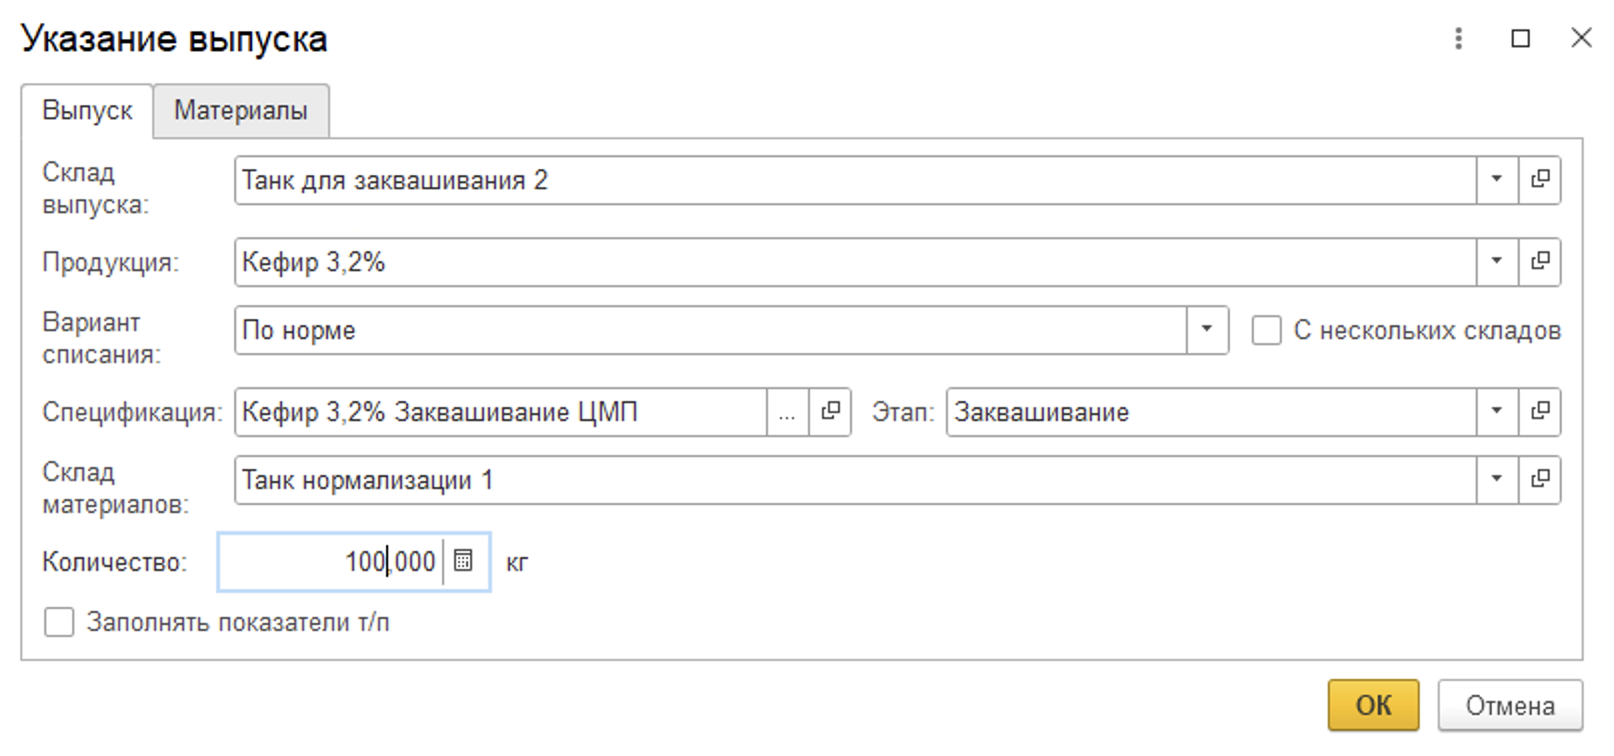
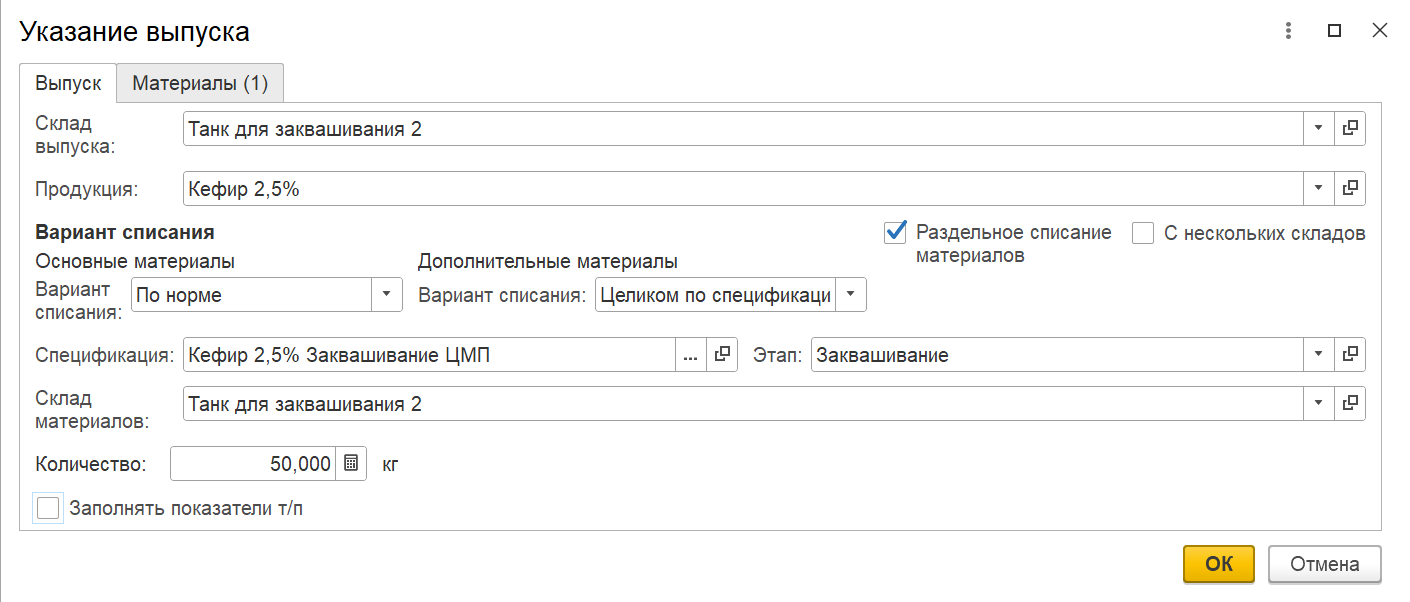
фикс: новый рммс

Changed region(s): [[0.0, 0.0299, 0.9986, 0.9867], [0.9362, 0.0299, 0.9986, 0.0598]]

diff --git a/docs/Manufacture/CommonInformation/Functional/NewWorkPlaceOfShiftWizard/NewWorkPlaceOfShiftWizard.md b/docs/Manufacture/CommonInformation/Functional/NewWorkPlaceOfShiftWizard/NewWorkPlaceOfShiftWizard.md
@@ -1,0 +1,134 @@
+**Действия в Контроле результатов производства**
+==========================================
+
+В рабочем месте "Контроль результатов производства" присутствует довольно много операций, что объясняется вовлечением мастера смены во все процессы цеха. Потому и было решено все эти действия объединить в одном месте.
+
+<h2> Вкладка "Задания" </h2>
+
+![](NewWorkPlaceOfShiftWizard.assets/drex_dejstviya_v_rabochem_meste_mastera_smeny_custom_9.png)
+
+<h3> Открыть задание </h3>
+
+Открывает ранее созданный документ "Производственное задание" на указанную смену и выбранный рабочий центр.
+
+<h3> Создать задание </h3>
+
+Открывает форму создание задания на указанную смену и выбранный рабочий центр.
+
+<h3> Корректировка </h3>
+
+![image-20200818085824546](NewWorkPlaceOfShiftWizard.assets/image-20200818085824546.png)
+
+- Откорректировать количество - позволяет внести правки в количество выпуска по выбранной партии в таблице "Выпуск";
+- Откорректировать номенклатуру - позволяет изменить вид продукции у выбранной в таблице "Выпуск" партии.
+
+<h3> Перераспределить сырье </h3>
+
+В случае, если за смену были выпуски побочной продукции, на которую обычно не списывается основной ингредиент (Сыворотка, Обрат и тп), а на основные выпуски списание идет, этой кнопкой делается "минус" по расходу на основные выпуски и "плюс" по расходу на вторичные выпуски.  
+Распределение требует учтенных в системе показателей жира и белка по каждой партии выпуска и каждой партии основных материалов, т.к. разделение идет именно на основании этих показателей.
+
+<h2> Вкладка "Остатки" </h2>
+
+![](NewWorkPlaceOfShiftWizard.assets/drex_dejstviya_v_rabochem_meste_mastera_smeny_custom.png)
+
+На текущей вкладке можно смотреть приход/расход/остатки по полуфабрикатам, продукции, материалам и сырью.
+
+При этом, выбрав "Диаграмма", можно смотреть остатки в более наглядной форме. Такое обычно удобнее для участков, где происходит переработка "жидких" материалов.
+
+<h3> Объединить партии </h3>
+
+Позволяет объединить несколько партий одной продукции в одну.  
+Применяется при выпуске производственной партии молока. На входе есть много партий от разных поставщиков, на выходе - одна партия (накопился танк сырого молока - берется контрольный анализ, и молоко переходит в производственную партию).
+
+1. Выбрать партию (партии, склад) - нажать "Объединить партии",
+    подтвердить количество выхода (автоматически - сумма всех выделенных
+    партий).  
+![](NewWorkPlaceOfShiftWizard.assets/drex_dejstviya_v_rabochem_meste_mastera_smeny_custom_3.png)  
+2. Создается документ "Переработка", где в выпуске молоко с новой
+    партией, а в материалах - все партии, которые были выделены (или все
+    серии в танке, если позиционирование было на складе и если там была
+    одна номенклатура).
+
+В режиме диаграммы объединяются все партии склада, независимо от количества выделенных.
+
+<h3> Указать выпуск </h3>
+
+Позволяет указать на какой-либо из складов РЦ выпуск.   
+Предполагает учет выпусков сливок, смеси, обрата и других полуфабрикатов приемно-аппаратного цеха.
+
+1. Выбрать в таблице склад выпуска - нажать "Указать выпуск". Указать,
+    что и в каком количестве выпускается. При этом можно выбрать один из
+    трех вариантов списания материалов для основных и дополнительных материалов (не распределять; по норме - указывается склад (склады), с которого берется основной материал (по спецификации); целиком по спецификации - все остатки (по рецептуре) на указанном складе (складах) будут списаны на этот выпуск).  
+![](NewWorkPlaceOfShiftWizard.assets/drex_dejstviya_v_rabochem_meste_mastera_smeny_custom_4.png)  
+2. При этом, если выпускаемая продукция имеет одну единицу измерения (не литры), то количество можно получить, как сумму всех материалов по основной спецификации, чья единица измерения совпадает с единицей измерения выпуска.  
+![](NewWorkPlaceOfShiftWizard.assets/2.png)  
+3. Если выпускаемая продукция принималась в литрах, то есть возможность использовать пересчет литров в килограммы указывая плотность жидкого сырья.
+![](NewWorkPlaceOfShiftWizard.assets/1.png)
+4. Создается документ "Переработка", где в выпуске указанная номенклатура и количество, материалы заполняются согласно указанным правилам и корректировкам.
+
+<h3> Переместить </h3>
+
+Позволяет перемещать партии продукции между складами.  
+Предполагает учет передач сливок, обрата в другие цеха или склады цеха.
+
+1. Выбрать в таблице партию (партии) - нажать "Переместить". Указать
+    куда и сколько перемещается.  
+![](NewWorkPlaceOfShiftWizard.assets/drex_dejstviya_v_rabochem_meste_mastera_smeny_custom_5.png)  
+2. Создается документ "Распоряжение на перемещение".
+
+<h3> Списать </h3>
+
+Формируется документ "Распределение материалов".  
+
+- **Согласно спецификации** - требует наличие выпуска по
+    спецификации, где выбранный остаток конфигурирует, как материал.
+    Списание идет на все выпуски, по которым выбранный остаток мог бы
+    быть потрачен.  
+    Например, есть пакет красный. С его использованием упаковывают
+    несколько варок сыра "Российский 3\\19", "Пошехонский 5\\19". В
+    каждой спецификации этот пакет указан в материалах. При
+    распределении этот пакет списывается и на Российский, и на
+    Пошехонский.  
+    -   Выбрать материал (и серию) - нажать "Списать". Указать вариант
+    списания "Согласно спецификации", если включена опция "Выбирать из выпуска"-выбрать конкретные выпуски для распределения, и указать списываемое количество.
+
+- **Пропорционально списанному** - требует наличие выпуска, где
+    материал, по которому есть остаток, уже был потрачен.
+    Например, так же пакеты красные. Потратились на упаковке на сыр
+    "Российский" и на сыр "Пошехонский". Но при этом, на пошехонский сыр
+    не стоит в спецификации. В варианте **a.** пакеты списались бы
+    только на российский сыр, а в текущем - на оба. 
+    -   Выбрать материал (и серию) - нажать "Списать". Указать вариант
+    списания "Пропорционально списанному".
+
+- **По отраслевой методике** - не требует расхода материала, но
+    требует наличие выпусков, на которые этот материал может быть
+    потрачен. Также требует наличия анализов по жиру и белку.  
+    Списывается на все выпуски, пропорционально содержанию жира и белка
+    в них.  
+    Например, применяется на переделе, когда есть выпуски смесей, сливки
+    и обрат. Все молоко списывают на все выпуски согласно содержанию
+    жира и белка в них.  
+    -   Выбрать партию молока - нажать "Списать". Указать вариант списания
+    "По отраслевой методике", указать количество и, если включена опция "Выбирать из выпуска"-выбрать конкретные выпуски для распределения.
+
+- **Брак**- требует расхода материала. В текущем функционале виден
+    только для номенклатуры с типом "Короб" или "Пакет".  
+    Предполагает списание бракованных коробов или пакетов, выявленных в
+    процессе их использования за смену. Указанный материал списывается
+    со статьей брака на уже имеющиеся выпуски пропорционально
+    потраченному.
+    -   Выбрать короб или пакет (и серию) - нажать "Списать". Указать
+    вариант списания "Брак", указать количество и статью затрат для
+    брака.
+
+    ![image-20200818091735836](NewWorkPlaceOfShiftWizard.assets/image-20200818091735836.png)
+
+<h3> Заменить материал </h3>
+
+Требует наличие расхода заменяемого материала. Указанное количество заменяемого материала приходуется, а чем заменяем – расходуется на ту продукцию, на которую тратился заменяемый.  
+1. Перейти на вкладку "Остатки" -\> "Материалы" (или "Прочее"), найти
+    заменяемый материал (и его серию) - нажать "Заменить материал".
+    Указать, чем заменяется (и серию), количество для замены.  
+![image-20200818090413350](NewWorkPlaceOfShiftWizard.assets/image-20200818090413350.png)
+2. Формируется документ "Распределение материалов".

diff --git a/docs/Manufacture/Milk/Functional/WorkPlaceOfShiftWizard/WorkPlaceOfShiftWizard.md b/docs/Manufacture/Milk/Functional/WorkPlaceOfShiftWizard/WorkPlaceOfShiftWizard.md
@@ -164,9 +164,10 @@
 
 - Выбрать в таблице склад выпуска, нажать **"Указать выпуск"**. Указать, что и в каком количестве выпускается;
 - Указать спецификацию, по которой производится продукция;
-- Указать вариант распределения;
+- Указать вариант распределения (при включении параметра "Раздельное списание материалов" можно указать разные способы распределения для основного и вспомогательного материалов);
 - Указать склады, с которых расходуются материалы (кроме варианта распределения - **"Не распределять"**);
-- Создается документ **"Переработка"** на выпуск указанной продукции. Количество выпуска и данные о материалах заполняются по указанному правилу.
+- На вкладке "Материалы" откорректировать (добавить или удалить) материалы на выпуск;
+- Создается документ **"Переработка"** на выпуск указанной продукции. Количество выпуска и данные о материалах заполняются согласно указанному на вкладке "Материалы" при указании выпуска.
 
 ![5](WorkPlaceOfShiftWizard.assets/5.png)
 

diff --git a/docs/Manufacture/CommonInformation/Functional/readme.md b/docs/Manufacture/CommonInformation/Functional/readme.md
@@ -1,3 +1,4 @@
 # Функционал
 
 - [Действия в Рабочем месте мастера смены](WorkPlaceOfShiftWizard/WorkPlaceOfShiftWizard.md)
+- [Действия в Контроле результатов производства](NewWorkPlaceOfShiftWizard/NewWorkPlaceOfShiftWizard.md)
